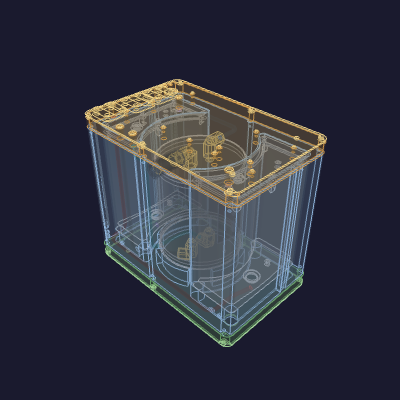
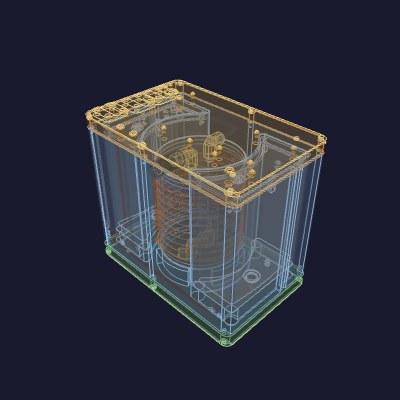
the evaporator coil is drawn, and it wants the port lane the CO2 already has
The wrap is an exact helix on the tank's own radius - tank OD plus one tube radius - clocked
so its two ends land on the azimuths coil_mandrel struck for them, and climbing the 9.687
wraps that mandrel's tail delta sets. Both tails leave the wrap, come to their own lane and
drop it to the slot station copper_plugs leaves them.

Three readings:

  - the wrap draws 4060 mm against the 3877 mm bom.md bills. The billed figure is struck at
    the MANDREL radius, 63.675, and the copper ends up at 66.675 once it springs onto the
    tank. Per vessel that is 16.60 ft cut against 16.00 billed, so three per 50 ft roll
    leaves 0.20 ft rather than the ~2 ft the row claims.

  - the inlet tail and the CO2 riser cross. The tail crosses the wall at z 27.75 on the port
    lane (copper_plugs.evap_cross_z) and the CO2 falls that same lane at x -72.5 through
    every z. The lane is one bore wide, so there is no passing.

  - the inlet tail leaves the wrap at azimuth -123.69 and the carbonated-water riser stands
    off the coil envelope at -127.0. That is 4.1 mm between two 6.35 tubes.

lane-census is the reading behind both: every run that enters a lane's Y band, with the Z it
occupies there.

diff --git a/hardware/cold-core-layout/_coil.py b/hardware/cold-core-layout/_coil.py
@@ -1,0 +1,168 @@
+"""The evaporator coil, wound on the tank, with the two tails that leave it.
+
+`coil-mandrel` is the tool the copper is wound ON — a cylinder undersized by `net_undersize` so
+the wrap springs out and clamps the tank when it comes off. This module is the copper AFTER
+that, at the radius it actually sits at: one tube radius off the tank's own OD.
+
+    winding radius   `tank_outer_radius + tube_radius`, the copper's centreline on the tank
+    wraps            `coil_mandrel.total_wraps` — 9 full plus the fraction the tails' azimuths
+                     span, which is the mandrel's own figure and stays its own
+    z                `evap_tail_low_z` up to `evap_tail_high_z`, the bands the vessel's own
+                     elbows leave clear above and below it
+
+FRAMES. The mandrel is authored lying down, its own Y the cylinder axis and (x, z) the radial
+plane. Standing it up on the shell's Z, `x → y` and `z → −x`: the mirror the tails leave about
+is the mandrel's x = 0, and in the shell that is the plane between the port lane and the west
+one. `_map_azimuth` is that turn, and it leaves `tail_ccw_delta` alone, so the wrap count the
+mandrel struck is the wrap count drawn here.
+
+WHERE A TAIL GOES after the wrap: onto its own lane, down it, and out through the wall at the
+station its plug leaves. `copper_plugs.slot_station` is where each crosses — the inlet's on the
+port lane, the outlet's on the west — and both stand at `evap_cross_z`, well under the heights
+their wraps leave at. The drop is the tail's own, taken in the lane.
+"""
+
+from __future__ import annotations
+
+import math
+import sys
+from pathlib import Path
+
+import cadquery as cq
+
+_here = Path(__file__).resolve()
+_hw = next(p for p in _here.parents if p.name == "hardware")
+_cold = _hw / "printed-parts" / "cold-core"
+for _p in (_hw / "scripts", _cold, _cold / "coil-mandrel", _cold / "copper-plugs", _here.parent):
+    if str(_p) not in sys.path:
+        sys.path.insert(0, str(_p))
+
+import coil_mandrel as _mandrel                          # noqa: E402
+import copper_plugs as _plugs                            # noqa: E402
+from _cold_core_interface import (                       # noqa: E402
+    evap_tail_high_z,
+    evap_tail_low_z,
+    tank_outer_radius,
+    wall_and_floor_thickness,
+)
+from _routing import stock_min, stock_of                 # noqa: E402
+import _internal_routes as _R                            # noqa: E402
+
+TUBE_R = _mandrel.tube_radius                       # 3.175 — 1/4" ACR copper
+# The copper's centreline once it is off the mandrel and onto the tank: its inner surface on
+# the tank's OD.
+WIND_R = tank_outer_radius + TUBE_R
+TOTAL_WRAPS = _mandrel.total_wraps
+PITCH = _mandrel.pitch
+COPPER_STOCK = stock_of("refrigerant", 2 * TUBE_R)
+COPPER_BEND = stock_min("refrigerant", 2 * TUBE_R)
+
+# How far a tail stands off the wrap before it turns for its lane — one bend radius, the
+# shortest straight a turn off the helix can be seated in.
+TAIL_LEAD = COPPER_BEND
+
+
+def _map_azimuth(mandrel_x: float, mandrel_z: float) -> float:
+    """One of the mandrel's radial points as an azimuth in the shell's frame, degrees CCW
+    off +X."""
+    return math.degrees(math.atan2(mandrel_x, -mandrel_z))
+
+
+AZ_IN = _map_azimuth(_mandrel.tail_inlet_x, _mandrel.tail_inlet_z)
+AZ_OUT = _map_azimuth(_mandrel.tail_outlet_x, _mandrel.tail_outlet_z)
+
+
+def _at(azimuth_deg: float, z: float, radius: float = None) -> cq.Vector:
+    r = WIND_R if radius is None else radius
+    a = math.radians(azimuth_deg)
+    return cq.Vector(r * math.cos(a), r * math.sin(a), z)
+
+
+WIND_HEIGHT = evap_tail_high_z - evap_tail_low_z
+
+
+def helix_wire() -> cq.Wire:
+    """The wrap's centreline, clocked so it starts on the inlet tail's own azimuth."""
+    helix = cq.Wire.makeHelix(PITCH, WIND_HEIGHT, WIND_R)
+    return (helix.rotate(cq.Vector(0, 0, 0), cq.Vector(0, 0, 1), AZ_IN)
+            .translate(cq.Vector(0, 0, evap_tail_low_z)))
+
+
+def build_wrap() -> cq.Solid:
+    """The helix as swept copper."""
+    wire = helix_wire()
+    profile = cq.Workplane(cq.Plane(origin=wire.startPoint(), normal=wire.tangentAt(0)))
+    return profile.circle(TUBE_R).sweep(
+        cq.Workplane("XY").newObject([wire]), isFrenet=True).val()
+
+
+def wrap_length() -> float:
+    """The drawn wrap's developed length — the helix arc at the radius it sits at."""
+    return TOTAL_WRAPS * math.hypot(2 * math.pi * WIND_R, PITCH)
+
+
+def tail_points(which: str) -> list:
+    """One tail's centreline: off the wrap, onto its own lane, down it, and out through the
+    wall at the station its plug leaves."""
+    if which == "inlet":
+        az, z0, station = AZ_IN, evap_tail_low_z, "evap-inlet"
+    else:
+        az, z0, station = AZ_OUT, evap_tail_high_z, "evap-outlet"
+    (wall_x, lane_y, cross_z), _axis = _plugs.slot_station(station)
+
+    start = _at(az, z0)
+    # Radially out of the wrap far enough to turn in, then onto the lane's own y, then down it,
+    # then out through the wall.
+    lead = _at(az, z0, WIND_R + TAIL_LEAD)
+    return [
+        (start.x, start.y, start.z),
+        (lead.x, lead.y, lead.z),
+        (lead.x, lane_y, z0),
+        (lead.x, lane_y, cross_z),
+        (wall_x - wall_and_floor_thickness, lane_y, cross_z),
+    ]
+
+
+def build_tail(which: str):
+    """One tail drawn at the copper's own arc: `(bend_radius, solid)`."""
+    return _R.route_bend_radius, _R.build_route(tail_points(which), COPPER_BEND, TUBE_R)
+
+
+def bodies() -> dict:
+    return {
+        "evap-coil": build_wrap(),
+        "evap-tail-inlet": _R.build_route(tail_points("inlet"), COPPER_BEND, TUBE_R),
+        "evap-tail-outlet": _R.build_route(tail_points("outlet"), COPPER_BEND, TUBE_R),
+    }
+
+
+def tail_length(which: str) -> float:
+    return _R.route_wire(tail_points(which), COPPER_BEND).Length()
+
+
+def report() -> None:
+    wrap = wrap_length()
+    tails = tail_length("inlet") + tail_length("outlet")
+    print("  evaporator coil")
+    print(f"    stock           {COPPER_STOCK.name}, min bend {COPPER_BEND:.2f} — "
+          f"{COPPER_STOCK.source}")
+    print(f"    wound at        r {WIND_R:.3f} (tank {tank_outer_radius:.1f} + tube "
+          f"{TUBE_R:.3f}); the mandrel winds at r {_mandrel.helix_path_radius:.3f}")
+    print(f"    wraps           {TOTAL_WRAPS:.3f} at {PITCH:.4g} mm pitch, "
+          f"z {evap_tail_low_z:.1f}..{evap_tail_high_z:.1f}")
+    print(f"    azimuths        inlet {AZ_IN:+.2f}°, outlet {AZ_OUT:+.2f}°, "
+          f"CCW delta {_mandrel.tail_ccw_delta:.2f}°")
+    # Two readings of one length: the wrap as this module draws it on the TANK, and the figure
+    # `bom.md` §5 bills, which `coil_mandrel` strikes at the MANDREL's smaller radius.
+    print(f"    wrap drawn      {wrap:.0f} mm ({wrap / 304.8:.2f} ft) against "
+          f"{_mandrel.wrap_length:.0f} mm ({_mandrel.wrap_length / 304.8:.2f} ft) billed "
+          f"— {wrap - _mandrel.wrap_length:+.0f} mm")
+    print(f"    tails drawn     {tails:.0f} mm, against the "
+          f"{2 * _mandrel.stub_allowance:.0f} mm of stub the cut allows")
+    cut = wrap + 2 * _mandrel.stub_allowance
+    print(f"    cut per vessel  {cut / 304.8:.2f} ft against {_mandrel.cut_length / 304.8:.2f} "
+          f"ft billed; 3 per 50 ft roll leaves {50 - 3 * cut / 304.8:+.2f} ft")
+
+
+if __name__ == "__main__":
+    report()

diff --git a/hardware/cold-core-layout/cold_core_assembly.py b/hardware/cold-core-layout/cold_core_assembly.py
@@ -37,6 +37,7 @@ import _internal_routes as _routes                       # noqa: E402
 import copper_plugs as _plugs                            # noqa: E402
 from _cold_core_interface import foam_shell_outer_height  # noqa: E402
 import _vessel as _V                                     # noqa: E402
+import _coil as _C                                       # noqa: E402
 import _fittings as _F                                   # noqa: E402
 import _cold_scorecard as _card                          # noqa: E402
 from _cold_scorecard import Check, Scorecard, verdict     # noqa: E402
@@ -58,6 +59,7 @@ C_RES_CAP = cq.Color(0.70, 0.74, 0.80, 0.55)
 C_PLUG = cq.Color(0.35, 0.40, 0.48)
 C_SHROUD = cq.Color(0.30, 0.34, 0.40)
 C_BRIDGE = cq.Color(0.40, 0.44, 0.52)
+C_COPPER = cq.Color(0.80, 0.45, 0.20)
 
 FOAM_COLORS = {
     "foam-shell": C_FOAM_SHELL,
@@ -92,9 +94,25 @@ HELD_BY = {
     "copper-plug-top": "wall slot",
     "prv-shroud": "the PRV it caps",
     "reed-bridge": "support ring",
+    "evap-coil": "the tank it clamps",
+    "evap-tail-inlet": "wall slot",
+    "evap-tail-outlet": "wall slot",
 }
 for _n in _V.PORTS:
     HELD_BY[f"vessel-elbow-{_n}"] = "plate thread"
+
+# Bodies that meet because they are MADE UP on each other. The wrap and its two tails are one
+# length of copper — `coil_mandrel.cut_length` is one cut — so the volume they share is the
+# joint, and drawing it as three children is what lets each carry its own colour.
+JOINED = {frozenset(p) for p in (
+    ("evap-coil", "evap-tail-inlet"),
+    ("evap-coil", "evap-tail-outlet"),
+)}
+
+# The copper that is a RUN rather than a wall. A fluid line has to clear the wrap, which is
+# fixed on the tank the moment it is wound; the two tails travel the same lanes the fluid lines
+# do, so they are graded against them as lines rather than fitted around as obstacles.
+TAIL_LINES = ("evap-tail-inlet", "evap-tail-outlet")
 
 
 def _load(path: Path):
@@ -131,6 +149,7 @@ def build_bodies() -> dict:
         placed[f"copper-plug-{plug}"] = _plug_into_shell(
             _load(_cold / "copper-plugs" / f"copper-plug-{plug}.step"), spec.column)
 
+    placed.update(_C.bodies())
     placed.update(_prv_stack())
     placed["reed-bridge"] = _load(_cold / "reed-bridge" / "reed-bridge.step").translate(
         (0, 0, _V.tank_bottom_z))
@@ -170,7 +189,8 @@ def build_routes(placed: dict) -> dict:
 
     The obstacles are the solids a line runs among — everything placed except the caps standing
     over the shell's open top, which every riser passes on its way out."""
-    obstacles = {n: s for n, s in placed.items() if not n.startswith("foam-cap")}
+    obstacles = {n: s for n, s in placed.items()
+                 if not n.startswith("foam-cap") and n not in TAIL_LINES}
     return {n: _routes.fit_route(pts, obstacles) for n, pts in trimmed_routes().items()}
 
 
@@ -204,6 +224,8 @@ def _colour_for(name: str):
         return C_RESERVOIR
     if name.startswith("copper-plug"):
         return C_PLUG
+    if name.startswith("evap-"):
+        return C_COPPER
     if name == "prv-shroud":
         return C_SHROUD
     if name == "prv-sv125":
@@ -221,6 +243,8 @@ def _bodies_clear(placed: dict) -> Check:
     detail = []
     for i, a in enumerate(names):
         for b in names[i + 1:]:
+            if frozenset((a, b)) in JOINED:
+                continue
             vol = placed[a].intersect(placed[b]).Volume()
             if vol > _card.TOUCH_VOLUME:
                 detail.append(f"{a} ∩ {b} = {vol:.2f} mm³")
@@ -236,6 +260,8 @@ def _routes_fit(placed: dict, fitted: dict) -> Check:
     for name in sorted(fitted):
         tube = fitted[name][1]
         for other, solid in sorted(placed.items()):
+            if other in TAIL_LINES:
+                continue
             vol = tube.intersect(solid).Volume()
             if vol > _card.TOUCH_VOLUME:
                 detail.append(f"{name} meets {other} by {vol:.2f} mm³")
@@ -244,16 +270,47 @@ def _routes_fit(placed: dict, fitted: dict) -> Check:
                  "every line clear", detail)
 
 
-def _lines_apart(fitted: dict) -> Check:
-    names = sorted(fitted)
+def _lines_apart(fitted: dict, placed: dict) -> Check:
+    """No two runs want the same corridor.
+
+    The population is every fluid line plus the two copper tails: a lane is one bore wide, so
+    what keeps two runs apart is the storey each takes, and copper takes a storey like anything
+    else."""
+    runs = {n: t for n, (_b, t) in fitted.items()}
+    runs.update({n: placed[n] for n in TAIL_LINES if n in placed})
+    names = sorted(runs)
     detail = []
     for i, a in enumerate(names):
         for b in names[i + 1:]:
-            vol = fitted[a][1].intersect(fitted[b][1]).Volume()
+            vol = runs[a].intersect(runs[b]).Volume()
             if vol > _card.TOUCH_VOLUME:
-                detail.append(f"{a} and {b} share {vol:.2f} mm³")
-    return Check("lines-apart", "No line meets another line", "gate", verdict(not detail),
-                 f"{len(detail)} crossing", "0 crossing", detail)
+                detail.append(f"{a} and {b} share {vol:.2f} mm³ — two runs in one corridor")
+    return Check("lines-apart", "No two runs want the same corridor", "gate",
+                 verdict(not detail), f"{len(detail)} crossing", "0 crossing", detail)
+
+
+def _lane_census(fitted: dict, placed: dict) -> Check:
+    """Which runs use each lane, and at what storey.
+
+    A lane is one bore wide (`_cold_core_interface` states the width and the wall either side),
+    so what separates two runs in one is the Z each takes. This lists every run whose centreline
+    enters a lane's Y band, with the Z span it occupies there — the reading behind any crossing
+    `lines-apart` names."""
+    lanes = {"port-lane": _plugs.columns["port-lane"].lane_y,
+             "west-lane": _plugs.columns["west-lane"].lane_y}
+    half = _routes.line_radius + _routes.lldpe_tube_od / 2.0
+    runs = {n: t for n, (_b, t) in fitted.items()}
+    runs.update({n: placed[n] for n in TAIL_LINES if n in placed})
+    detail = []
+    for lane, y in sorted(lanes.items()):
+        for name in sorted(runs):
+            bb = runs[name].BoundingBox()
+            if bb.ymin > y + half or bb.ymax < y - half:
+                continue
+            detail.append(f"{lane}: {name} at z {bb.zmin:.1f}..{bb.zmax:.1f}, "
+                          f"x {bb.xmin:.1f}..{bb.xmax:.1f}")
+    return Check("lane-census", "What each lane carries, and at what storey", "gate", "pass",
+                 f"{len(detail)} run-lane pairs", "a reading, not a bound", detail)
 
 
 def _arcs_hold(fitted: dict) -> Check:
@@ -365,7 +422,8 @@ def build_card(a) -> Scorecard:
     checks = [
         _bodies_clear(placed),
         _routes_fit(placed, fitted),
-        _lines_apart(fitted),
+        _lines_apart(fitted, placed),
+        _lane_census(fitted, placed),
         _arcs_hold(fitted),
         _goal("placed", "Every body the core carries is placed", len(placed), len(placed),
               "a solid per body"),
@@ -393,6 +451,7 @@ def report(a) -> None:
           f"shell z 0..{foam_shell_outer_height:.1f}, "
           f"stack floor {_foam.stack_floor_z:.1f}, cap face {_foam.cap_face_z:.1f}")
     _V.report()
+    _C.report()
 
 
 def main() -> int:
